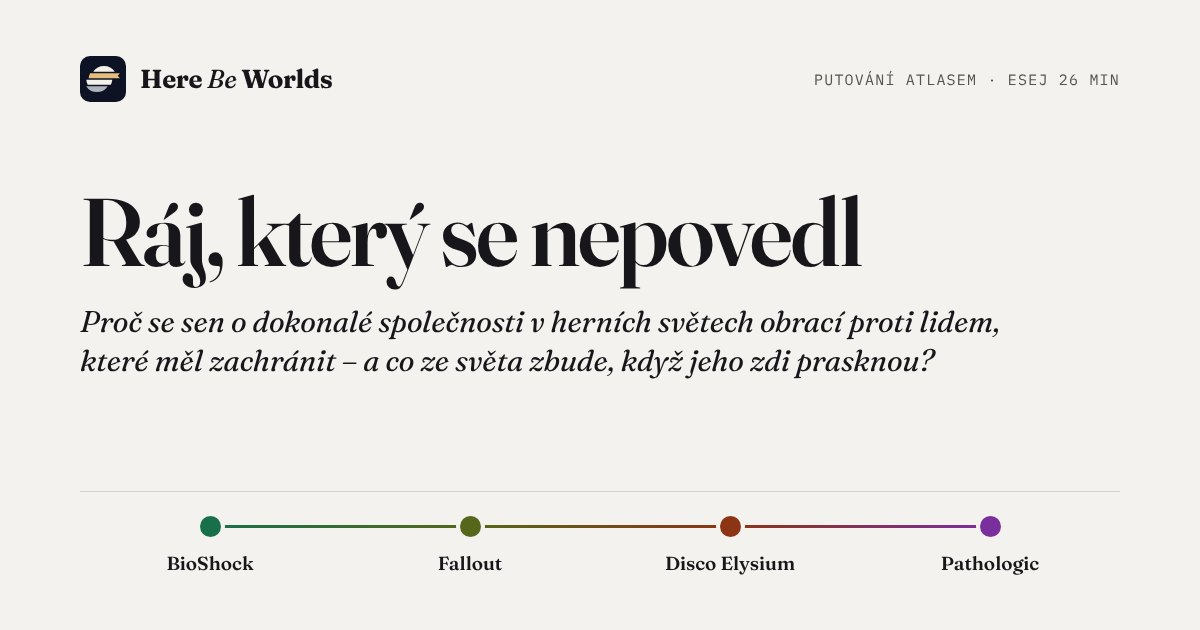
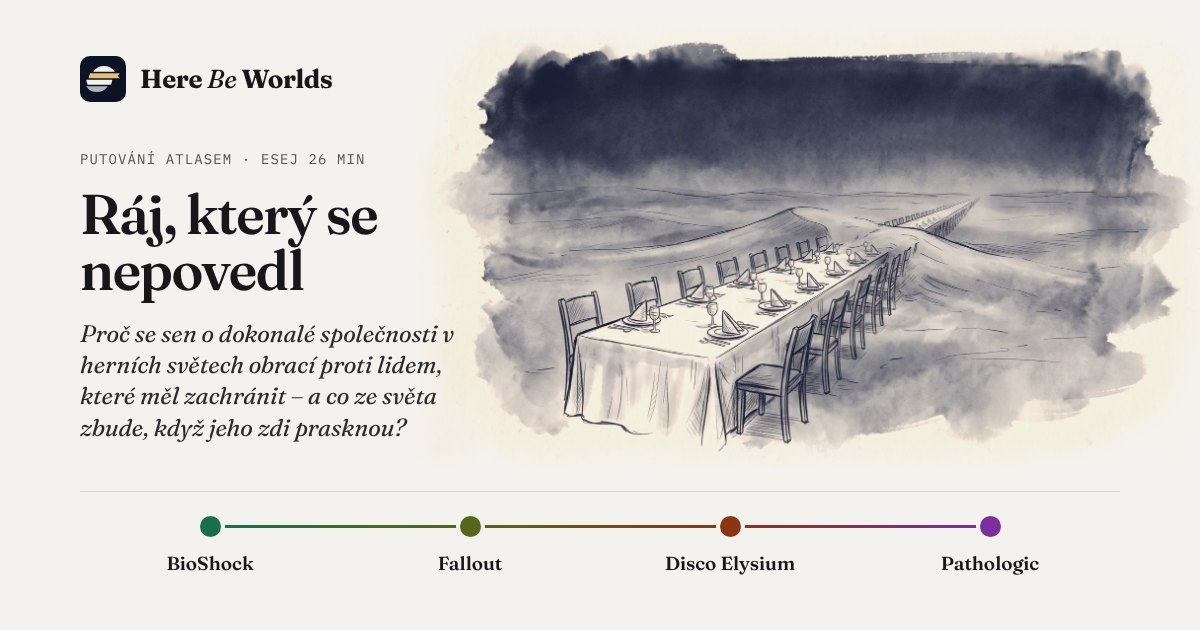
Obrázky k putování Ráj, který se nepovedl: hostina v dunách, schodiště zpět do země, zazděný oblouk
Claude-Session: https://claude.ai/code/session_01B7obWLKHHEWxurZ5a1svnf

diff --git a/src/lib/trail-images.ts b/src/lib/trail-images.ts
@@ -25,6 +25,7 @@ export const READY: Record<TrailId, number> = {
   'who-woke-up': 3,
   'cursed-legacy': 3,
   'free-will': 3,
+  'failed-paradise': 3,
 };
 
 const DIR = 'putovani-obrazky';

diff --git a/docs/obrazky-putovani.md b/docs/obrazky-putovani.md
@@ -11,7 +11,7 @@ Stav 2026-11-23: styl nalezený po pěti kolech zkoušek (náhled `/putovani/nav
 - **Jedna myšlenka, malý předmět (majitel 2026-11-23, po nepovedeném kole Uvězněni v kruhu):** velké přeplněné scény (had s průvodem poutníků, nekonečné schodiště, ptačí klec se světem, koleje s planetami) majitel zamítl jako tematicky nesevřené a „poznat, že je to AI“. Nosná je jedna myšlenka na jednom malém předmětu nebo polocelku (vzor: kamenné víčko, žebřík opřený o nebe, gramofon). Vedlejší motivy jen tam, kde tvoří hlavní tvar (most z kořenů, copů a prádla), ne jako zástup figurek a symbolů.
 - **Víc motivů k objevování:** hlavní tvar ať je složený z několika nečekaných předmětů, které člověk objeví až při delším pohledu (vzor: most z dlažby, kořenů, copů a šňůr s prádlem; majitel 2026-11-23). Jen když dávají jednomu tvaru smysl, nikdy jako výčet symbolů tématu.
 - **Neopakovat se, nečekaný znepokojivý detail (majitel 2026-11-25, u Prokletého dědictví):** napříč putováními se začaly opakovat stejné rekvizity (klíčky, zrcadla, obrazy, botičky, stopy) a majitel to zamítl: „chce to přijít s něčím nečekaným, a o to víc znepokojivým, musí tam být nějaký nečekaný moment, detail“. Vzor: kolébka s korunou, jejíž stín na zdi je rakev. Postup: obyčejný předmět (domácí, dětský, rodinný), který na první pohled nic nenaznačuje, a jediný detail, který ho na druhý pohled převrátí. Před návrhem motivů projít seznam níže a nesáhnout po ničem, co v něm už je; když se rekvizita přece jen hodí, říct to majiteli předem. Témata smějí být temná a zlověstná, bez krve a násilí (v promptu `Avoid: … gore`; u temných putování Mood „ominous surrealism … heavy with dread“ místo „quiet“).
-- **Už použité rekvizity (doplňovat po každém putování):** klíče a klíčové dírky (klíč stočený do kruhu, měsíc jako klíčová dírka) · zrcadla (rukavice a zrcátko, zamlžené zrcadlo) · obrazy a rámy (stín, který vypadl z obrazu) · boty a stopy (stopy ve sněhu, prázdné boty u žebříku) · prázdné oděvy (plášť na trůnu, kabát ukazující cestu, rukavice) · žebra a kosti jako stavivo (katedrála ze žeber, jablko se žebry) · trůny (plášť na trůnu, trůn s břízou) · knihy, deníky a dopisy (postavička z knihy, můra z deníku, dopisy z hlavy sochy, hranice srolovaných dopisů) · hodiny (kavalerie z rozbitých hodin) · světla (lucerna, svíčka, oheň u gramofonu) · koště a brky (koště z brků) · kouř (sirka z kouře, beránek z kouře) · nábytek a pokoje (křesla za sklem, okno s pokojem na pláni, koberec nad jámou) · stín jako odhalení (stín klíče, stín z obrazu, stín chapadel u pulce, stín rakve u kolébky) · ostatní: městečko na jevišti s roztrženým nebem, vajíčko ve vajíčku, kamenné víčko, domy otáčející se za chodcem, most z dlažby, kořenů, copů a prádla, prapory z hejn ptáků, kolotoč z děl, žebřík opřený o nebe, gramofon s hvězdami, sklenice s pulcem, mince na hraně, řetěz s dětským poutem, šperkovnice s mléčnými zuby, koleje a výhybka (smyčka jako oko), obojek s vodítkem do mraků, trhací kalendář s prázdnými listy (a kolébka v seznamu stínů). Zkoušené a zamítnuté u svobodné vůle: hrací skříňka s baletkou, kostka ve vzduchu, piliny s magnetem (třikrát nevyšlo), budka zatlučená zevnitř.
+- **Už použité rekvizity (doplňovat po každém putování):** klíče a klíčové dírky (klíč stočený do kruhu, měsíc jako klíčová dírka) · zrcadla (rukavice a zrcátko, zamlžené zrcadlo) · obrazy a rámy (stín, který vypadl z obrazu) · boty a stopy (stopy ve sněhu, prázdné boty u žebříku) · prázdné oděvy (plášť na trůnu, kabát ukazující cestu, rukavice) · žebra a kosti jako stavivo (katedrála ze žeber, jablko se žebry) · trůny (plášť na trůnu, trůn s břízou) · knihy, deníky a dopisy (postavička z knihy, můra z deníku, dopisy z hlavy sochy, hranice srolovaných dopisů) · hodiny (kavalerie z rozbitých hodin) · světla (lucerna, svíčka, oheň u gramofonu) · koště a brky (koště z brků) · kouř (sirka z kouře, beránek z kouře) · nábytek a pokoje (křesla za sklem, okno s pokojem na pláni, koberec nad jámou) · stín jako odhalení (stín klíče, stín z obrazu, stín chapadel u pulce, stín rakve u kolébky) · ostatní: městečko na jevišti s roztrženým nebem, vajíčko ve vajíčku, kamenné víčko, domy otáčející se za chodcem, most z dlažby, kořenů, copů a prádla, prapory z hejn ptáků, kolotoč z děl, žebřík opřený o nebe, gramofon s hvězdami, sklenice s pulcem, mince na hraně, řetěz s dětským poutem, šperkovnice s mléčnými zuby, koleje a výhybka (smyčka jako oko), obojek s vodítkem do mraků, trhací kalendář s prázdnými listy, hostina v dunách, schodiště zpět do země, zazděný oblouk s pěšinou kolem (a kolébka v seznamu stínů). Zkoušené a zamítnuté u svobodné vůle: hrací skříňka s baletkou, kostka ve vzduchu, piliny s magnetem (třikrát nevyšlo), budka zatlučená zevnitř. U Ráje: hradby obrácené dovnitř (vyšel obyčejný hrad), maják na dně (vypadá jako zatopený katastrofou), ráj pod skleněným zvonem (vypadá jako sněžítko), fontána s pískem (písek vypadá jako voda), kryt s pentlí (dveře jako trezor z Falloutu). Poučení (majitel 2026-11-25): u celků musí být paradox hlavní tvar a číst se na první pohled; nic ze skutečného světa (Vítězný oblouk z Paříže zamítnut).
 - **Světlo:** výchozí je **čistě modrá tuš bez zlaté**. Zlatá (#E5BE7E) jen výjimečně, když ji řádek scény výslovně jmenuje a je jádrem motivu (klíčová dírka na nebi, oheň u gramofonu). Gemini jinak zlatou přidává sám (okénka, lucerny), protože ji má vzorový obrázek: proto prompt výslovně zakazuje převzít lampu ze vzoru (majitel 2026-11-23: „pořád stejné rozsvícené okýnko a lucerna“).
 - **Motiv:** detail nebo polocelek, ne velká scéna. Obraz s druhým čtením: na první pohled obyčejný, na druhý nese otázku eseje. Prázdný prostor kolem.
 - **Nikdy:** text, písmena, podpisy, rámečky; postavy, loga a místa z her; náboženské symboly; lidé (nanejvýš drobná postava zezadu, když to motiv potřebuje); cákance tuše; airbrush; uhlazená digitální linka.
@@ -23,7 +23,7 @@ Stav 2026-11-23: styl nalezený po pěti kolech zkoušek (náhled `/putovani/nav
 - Masky: `maska/<slug>-N.png` podle tuše pro tmavý motiv (`python3 scripts/ink-masks.py`, pak zkopírovat z `navrh-obrazku/maska/`, nebo upravit cestu ve skriptu), `maska/freska.png` obecná.
 - Které putování obrázky má: `READY` v `src/lib/trail-images.ts`. Obrázky se ukážou jen u schválené eseje.
 - Rejstřík `/putovani/` má rozvržení karet ve dvou sloupcích s obrázkem nahoře (C, vybráno ze tří variant: A obraz za textem, B střídavé desky). Dokud nemají obrázky všechna putování, stojí vedle karty s obrázkem textové karty.
-- Na webu (2026-11-23): Hra ví, že ji hraješ (městečko na jevišti s roztrženým namalovaným nebem; postavička vylezlá z ilustrace v knize; stín, který vypadl z obrazu na podlahu); Na mrtvole boha (tři: prázdný plášť na trůnu držený provazy davu; trůn, kterým prorůstá bříza; jablko s žebry místo jádřince); Netvor v zrcadle (zatím jeden: stopy ve sněhu, které se z bot mění v tlapy); Mluví už jen mrtví (tři: prázdný kabát, který ukazuje cestu; můra s křídly z deníku; potopená hlava sochy, z níž stoupají listy dopisu k loďce); Uvězněni v kruhu (tři: klíč stočený do kruhu se stínem rovného klíče; vajíčko ve vajíčku; z kouře dohořelé sirky nová sirka); Bohové jako břemeno (katedrála ze žeber, kamenné víčko); Město, které dýchá (domy, které se otáčejí za chodcem; most z dlažby, kořenů, copů a prádla); Dům, ze kterého nejde odejít (měsíc jako zlatá klíčová dírka nad městečkem, okno uprostřed pláně s pokojem uvnitř). Válka, kterou nikdo nevyhraje (tři obrázky: prapory z hejn ptáků, kolotoč z děl, kavalerie z rozbitých hodin se svíčkou v temnu); Pod lhostejnými hvězdami (žebřík opřený o nebe s prázdnými botami a lucernou, gramofon, ze kterého se sypou hvězdy, u táboráku); Kdo za to může? (tři: prázdná rukavice ukazuje na zrcátko a odraz ukazuje zpět na diváka; koberec, pod jehož rohem je jáma se schody a koště z brků; z hranice srolovaných dopisů odplouvá kouř jako spící beránek, 2026-11-25); Kdo se to probudil? (tři: zamlžené zrcadlo nad umyvadlem, v jehož setřeném pruhu je další zrcadlo; dvě stejná křesla v pokoji rozděleném sklem, které prochází mincí na hraně; sklenice s pulcem, jehož stín na zdi jsou chapadla; 2026-11-25); Prokleté dědictví (tři: kolébka s korunou, jejíž stín je rakev, křížek na koruně vyretušovaný; řetěz z praskliny v zemi s otevřeným dětským poutem, hnědý nádech řetězu převedený do indiga; šperkovnice s náhrdelníkem z mléčných zubů; 2026-11-25); Křehká hranice svobodné vůle (tři: koleje shora, které se u výhybky rozdělí a zase spojí kolem kulatého jezírka, takže tvoří oko; prázdný obojek s vodítkem napnutým do mraků; trhací kalendář s prázdnými listy, jeden právě utržený, původně k jinému tématu, majitel ho přidal; 2026-11-25). Postup: 5 motivů, vybrat 2. **Motivy: surrealismus a neobvyklé kompozice, klidně velké měřítko a zachycený pohyb (Magritte, Dalí), neobvyklé spojení předmětů (v duchu Magritta), jen lehce doslovné** — první kolo s doslovnými motivy (tapeta, dveře, kolébka) majitel zamítl jako nenápadité. Do promptu řádek `Mood: subtle surrealism in the spirit of Magritte: one unexpected combination, quiet and uncanny, never literal or explanatory. Rich in discoverable detail: several unexpected secondary motifs are woven into the main forms, so the viewer keeps finding new things on a second look.` Po přidání prvního obrázku obnovit kartu pro sdílení: `npm run og -- <slug> putovani` (fonty a Chromium viz CLAUDE.md). Masky: `python3 scripts/ink-masks.py public/putovani-obrazky/<slug>-1.jpg …`; když je světlý papír uprostřed součástí motivu (mezera mezi konci mostu), přidej `--fill`. Skript dělá dvě masky: `<soubor>.png` pro tmavý motiv a širokou `<soubor>-light.png` pro světlý (papír tam schová multiply a lehké vybělení `brightness(1.06) saturate(0.8)`, maska nesmí zamlžit slabé tahy; majitel 2026-11-23). Ve světlém motivu se v eseji kresba ořezává jen širokou maskou (fresková by ořízla tahy štětce nahoře a stopy u spodního okraje); v tmavém motivu (esej i rejstřík) jen fresková maska: tvar je vždy **zvlněný obdélník do ztracena**, nikdy vykrojený podle skvrn tuše (majitel 2026-11-23). Zkoušený okraj podle tahů štětce se světlým lemem majitel zamítl jako „příliš“: v tmavém motivu okraje nebudou tak působivé jako ve světlém a je to tak správně; v rejstříku zůstává i fresková (obrázek je tam oříznutý na 3 : 2).
+- Na webu (2026-11-23): Hra ví, že ji hraješ (městečko na jevišti s roztrženým namalovaným nebem; postavička vylezlá z ilustrace v knize; stín, který vypadl z obrazu na podlahu); Na mrtvole boha (tři: prázdný plášť na trůnu držený provazy davu; trůn, kterým prorůstá bříza; jablko s žebry místo jádřince); Netvor v zrcadle (zatím jeden: stopy ve sněhu, které se z bot mění v tlapy); Mluví už jen mrtví (tři: prázdný kabát, který ukazuje cestu; můra s křídly z deníku; potopená hlava sochy, z níž stoupají listy dopisu k loďce); Uvězněni v kruhu (tři: klíč stočený do kruhu se stínem rovného klíče; vajíčko ve vajíčku; z kouře dohořelé sirky nová sirka); Bohové jako břemeno (katedrála ze žeber, kamenné víčko); Město, které dýchá (domy, které se otáčejí za chodcem; most z dlažby, kořenů, copů a prádla); Dům, ze kterého nejde odejít (měsíc jako zlatá klíčová dírka nad městečkem, okno uprostřed pláně s pokojem uvnitř). Válka, kterou nikdo nevyhraje (tři obrázky: prapory z hejn ptáků, kolotoč z děl, kavalerie z rozbitých hodin se svíčkou v temnu); Pod lhostejnými hvězdami (žebřík opřený o nebe s prázdnými botami a lucernou, gramofon, ze kterého se sypou hvězdy, u táboráku); Kdo za to může? (tři: prázdná rukavice ukazuje na zrcátko a odraz ukazuje zpět na diváka; koberec, pod jehož rohem je jáma se schody a koště z brků; z hranice srolovaných dopisů odplouvá kouř jako spící beránek, 2026-11-25); Kdo se to probudil? (tři: zamlžené zrcadlo nad umyvadlem, v jehož setřeném pruhu je další zrcadlo; dvě stejná křesla v pokoji rozděleném sklem, které prochází mincí na hraně; sklenice s pulcem, jehož stín na zdi jsou chapadla; 2026-11-25); Prokleté dědictví (tři: kolébka s korunou, jejíž stín je rakev, křížek na koruně vyretušovaný; řetěz z praskliny v zemi s otevřeným dětským poutem, hnědý nádech řetězu převedený do indiga; šperkovnice s náhrdelníkem z mléčných zubů; 2026-11-25); Křehká hranice svobodné vůle (tři: koleje shora, které se u výhybky rozdělí a zase spojí kolem kulatého jezírka, takže tvoří oko; prázdný obojek s vodítkem napnutým do mraků; trhací kalendář s prázdnými listy, jeden právě utržený, původně k jinému tématu, majitel ho přidal; 2026-11-25); Ráj, který se nepovedl (tři, poprvé celky místo předmětu, na pokyn majitele velký motiv a paradox: nekonečně dlouhý prostřený stůl v poušti, zavátý dunou; monumentální schodiště, které se v oblouku vrací zpátky do země; vymyšlený zazděný oblouk se sluncem, kolem jehož boku je v dlažbě vyšlapaná pěšina; 2026-11-25). Postup: 5 motivů, vybrat 2. **Motivy: surrealismus a neobvyklé kompozice, klidně velké měřítko a zachycený pohyb (Magritte, Dalí), neobvyklé spojení předmětů (v duchu Magritta), jen lehce doslovné** — první kolo s doslovnými motivy (tapeta, dveře, kolébka) majitel zamítl jako nenápadité. Do promptu řádek `Mood: subtle surrealism in the spirit of Magritte: one unexpected combination, quiet and uncanny, never literal or explanatory. Rich in discoverable detail: several unexpected secondary motifs are woven into the main forms, so the viewer keeps finding new things on a second look.` Po přidání prvního obrázku obnovit kartu pro sdílení: `npm run og -- <slug> putovani` (fonty a Chromium viz CLAUDE.md). Masky: `python3 scripts/ink-masks.py public/putovani-obrazky/<slug>-1.jpg …`; když je světlý papír uprostřed součástí motivu (mezera mezi konci mostu), přidej `--fill`. Skript dělá dvě masky: `<soubor>.png` pro tmavý motiv a širokou `<soubor>-light.png` pro světlý (papír tam schová multiply a lehké vybělení `brightness(1.06) saturate(0.8)`, maska nesmí zamlžit slabé tahy; majitel 2026-11-23). Ve světlém motivu se v eseji kresba ořezává jen širokou maskou (fresková by ořízla tahy štětce nahoře a stopy u spodního okraje); v tmavém motivu (esej i rejstřík) jen fresková maska: tvar je vždy **zvlněný obdélník do ztracena**, nikdy vykrojený podle skvrn tuše (majitel 2026-11-23). Zkoušený okraj podle tahů štětce se světlým lemem majitel zamítl jako „příliš“: v tmavém motivu okraje nebudou tak působivé jako ve světlém a je to tak správně; v rejstříku zůstává i fresková (obrázek je tam oříznutý na 3 : 2).
 
 ## Jak generovat
 

diff --git a/CLAUDE.md b/CLAUDE.md
@@ -83,7 +83,7 @@ Kroniky a eseje **nejsou** v `data/`.
 | `/notes/` | `src/pages/notes/index.astro` | `NotesPage` — obsah oddílů (lepí se pod hlavičku, oddíl, který čteš, je podtržený; na telefonu jeden řádek posuvný do strany, 2026-11-25), rejstříkový seznam pojmů (štítek vlevo, výklad vpravo), legenda 1–5 jako pruh os; oddíly Charakter světa · Profil světa · Triáda (tři pojmy s odkazy do Anatomie a do Galerie triád / Mapy neznáma, pod nimi typy hříchů, dilemata, druhy tajemství a kdo drží mezeru s ikonami – texty z `triad-types.json`, 2026-11-24 se souhlasem majitele) · Příbuznost světů (4 pilíře, 5 stupňů slovy, bez procent) · Kompas a ladění · Hlubina času (2026-11-25 s pokynem majitele: šest pojmů – sloupec a hladina, období her a rysky, dějiny a fundamentální události, odhad, mýtus a cyklus, stupnice, naše časová osa – a odkaz na stránku; `noteDeepTime*`) · Kánon (texty v `data/meta/notes.ts`) |
 | `/anatomie-herniho-lore/` | `src/pages/anatomie-herniho-lore/index.astro` | `EssayPage` (obsah `ReadingToc` vlevo, čtecí sloupec jako kronika, doba čtení pod podtitulem) |
 | `/teoreticke-zazemi/` | `src/pages/teoreticke-zazemi/index.astro` | `EssayPage` z `content/essays/teoreticke-zazemi.md`: prameny atlasu po oblastech (fikční světy, fantastika, herní studia, hrůza a posvátno, mýtus, paměť, osoba a identita, moc a dohled, dílna tvůrců), tabulka pojmů, výhrady k autorům, co by sem ještě patřilo, seznam literatury. Odkaz z Anatomie (oddíl Na čem metoda stojí) a z patičky. **Po zapracování nové knihy doplnit i sem.** |
-| `/putovani/` | `src/pages/putovani/index.astro` | `TrailsIndex` (`src/components/trails/`, styly `trails.css`): hlavička jako atlas, filtry **Svět** a **Téma** (rozsvítí stezky, kterými svět prochází / které se tématu dotýkají, ostatní ztlumí; `?svet=<id>`, `?tema=<slug>`; klik na téma v řádku dělá totéž, jméno světa v kartě vede rovnou na spis světa (majitel 2026-11-24)); rejstřík 22 stezek jako **karty ve dvou sloupcích** (rozvržení C, majitel 2026-11-23; karta: obrázek nahoře přes celou šířku karty do ztracena, 3 : 2, pak název, popis, světy s linkou v barvě archetypu nad každým jménem, témata eseje jako hranaté štítky na tónovaném podkladu (vybrané téma v akcentu) = `themes` v `trails.ts`, 2–4 na stezku, a za nimi „Esej · N min“; karta bez obrázku je jen text; na telefonu jeden sloupec); oddíl **Kde se stezky kříží** (mřížka stezky × všechny světy podle abecedy, i ty na jediné stezce, vpravo počet (majitel 2026-11-22), tečka v barvě archetypu, pod kurzorem se rozsvítí sloupec i řádek, názvy stezek nahoře i dole; na telefonu seznam dvanácti nejvíc křížených světů). V hlavičce webu odkaz Putování hned za Atlasem; Putování dne na titulní straně vedou na stránky putování. Staré adresy `/stezky/…` přesměrovávají (`src/pages/stezky/`, `RedirectPage.astro`). Obrázky k putováním (jediné místo na webu s obrázky): styl a postup `docs/obrazky-putovani.md`, soubory `public/putovani-obrazky/`, seznam `READY` v `src/lib/trail-images.ts`; náhled v rejstříku (`TrailsIndex images`) a v eseji pod úvodním citátem a uprostřed (`EssayPage hero/hero2/heroLive`), okraj do ztracena maskou. Zatím Bohové jako břemeno, Dům, ze kterého nejde odejít, Pod lhostejnými hvězdami, Válka, kterou nikdo nevyhraje, Město, které dýchá, Uvězněni v kruhu, Mluví už jen mrtví, Netvor v zrcadle, Na mrtvole boha, Hra ví, že ji hraješ, Kdo za to může?, Kdo se to probudil?, Prokleté dědictví a Křehká hranice svobodné vůle. Zkušební náhled `/putovani/navrh-obrazku/` (noindex). |
+| `/putovani/` | `src/pages/putovani/index.astro` | `TrailsIndex` (`src/components/trails/`, styly `trails.css`): hlavička jako atlas, filtry **Svět** a **Téma** (rozsvítí stezky, kterými svět prochází / které se tématu dotýkají, ostatní ztlumí; `?svet=<id>`, `?tema=<slug>`; klik na téma v řádku dělá totéž, jméno světa v kartě vede rovnou na spis světa (majitel 2026-11-24)); rejstřík 22 stezek jako **karty ve dvou sloupcích** (rozvržení C, majitel 2026-11-23; karta: obrázek nahoře přes celou šířku karty do ztracena, 3 : 2, pak název, popis, světy s linkou v barvě archetypu nad každým jménem, témata eseje jako hranaté štítky na tónovaném podkladu (vybrané téma v akcentu) = `themes` v `trails.ts`, 2–4 na stezku, a za nimi „Esej · N min“; karta bez obrázku je jen text; na telefonu jeden sloupec); oddíl **Kde se stezky kříží** (mřížka stezky × všechny světy podle abecedy, i ty na jediné stezce, vpravo počet (majitel 2026-11-22), tečka v barvě archetypu, pod kurzorem se rozsvítí sloupec i řádek, názvy stezek nahoře i dole; na telefonu seznam dvanácti nejvíc křížených světů). V hlavičce webu odkaz Putování hned za Atlasem; Putování dne na titulní straně vedou na stránky putování. Staré adresy `/stezky/…` přesměrovávají (`src/pages/stezky/`, `RedirectPage.astro`). Obrázky k putováním (jediné místo na webu s obrázky): styl a postup `docs/obrazky-putovani.md`, soubory `public/putovani-obrazky/`, seznam `READY` v `src/lib/trail-images.ts`; náhled v rejstříku (`TrailsIndex images`) a v eseji pod úvodním citátem a uprostřed (`EssayPage hero/hero2/heroLive`), okraj do ztracena maskou. Zatím Bohové jako břemeno, Dům, ze kterého nejde odejít, Pod lhostejnými hvězdami, Válka, kterou nikdo nevyhraje, Město, které dýchá, Uvězněni v kruhu, Mluví už jen mrtví, Netvor v zrcadle, Na mrtvole boha, Hra ví, že ji hraješ, Kdo za to může?, Kdo se to probudil?, Prokleté dědictví, Křehká hranice svobodné vůle a Ráj, který se nepovedl. Zkušební náhled `/putovani/navrh-obrazku/` (noindex). |
 | `/putovani/[id]/` | `src/pages/putovani/[id].astro` | Stránka každého putování, adresa = český slug z `TRAIL_SLUGS` (`trails.ts`), stejný jako soubor eseje v `content/trails/`. `EssayPage` s `trail`: pod hlavičkou `TrailCast` (světy) a `TrailThemes` (témata → `/putovani/?tema=`), před Zdroji `TrailWorlds` (souřadnice s výraznými názvy, seznam světů s archetypem a podžánrem). **Esej se ukáže jen s `approved: true` ve frontmatteru** (schvaluje majitel); jinak stránka ukáže rámeček „Esej připravujeme“, Světy putování a oddíl „Na čem putování stojí“ (jména pramenů z tabulky Prameny podle stezek v `docs/prameny/README.md`, `trailSources` v `src/lib/trail-pages.ts`). Neschválené eseje mají náhled `/putovani/navrh/<slug>/` (`noindex`, z webu na něj nic nevede). Schválené (2026-11-21): `na-mrtvole-boha`, `kdo-za-to-muze`, `kdo-se-to-probudil`, `netvor-v-zrcadle`, `mluvi-uz-jen-mrtvi`, `bohove-jako-bremeno`, `valka-kterou-nikdo-nevyhraje`, `proklete-dedictvi`, `krehka-hranice-svobodne-vule`, `uvezneni-v-kruhu`, `hra-vi-ze-ji-hrajes`, `raj-ktery-se-nepovedl`, `logo-nad-troskami`, `smich-nad-propasti`, `mesto-ktere-dycha`, `pod-lhostejnymi-hvezdami`, `kdo-drzi-kroniku`, `kopie-bez-originalu`, `dum-ze-ktereho-nejde-odejit`, `prace-ktera-nikdy-nekonci`, `jmeno-jako-klic-i-kletba`, `nakaza-s-vlastni-vuli` (všech 22). |
 | `/temata/` | `src/pages/temata/index.astro` | `ThemesIndex` (`src/components/themes/`, styly `themes.css`, 2026-11-24): pás hlavičky, řazení Podle abecedy / Podle počtu světů, rejstřík témat ve dvou sloupcích (název → stránka tématu, otázka kurzívou, otisk světů jako čtverečky v barvě archetypu, počet světů a putování) a **Kde se témata potkávají** (trojúhelníková mřížka téma × téma, kruh podle počtu světů s oběma tématy, prázdné šrafované, najetí rozsvítí řádek i sloupec a vypíše dvojici; na telefonu skrytá). |
 | `/temata/[slug]/` | `src/pages/temata/[slug].astro` | `ThemePage`, adresa = český název bez diakritiky (`themePageSlug` v `src/lib/themes.ts`). Hlavička v pásu: štítek „Téma“ (odkaz na rejstřík), název, otázka, „N světů · N archetypů · N putování“, vpravo **obloha z titulní strany v tuši** (`ThemeSky`; hvězdy na stejných místech díky `src/lib/sky.ts`, světy tématu rozsvícené v barvě archetypu a spojené přerušovanou nejkratší trasou, ostatní tlumeně; najetí na hvězdu ukáže jméno). Oddíly: **Světy** (záznamy ve třech sloupcích: linka v barvě archetypu, název, archetyp · podžánr, jádro kurzívou; najetí rozsvítí hvězdu) · **Podoba tématu** (Archetypy: řádek na archetyp, čtverečky = všechny jeho světy, plné = s tématem; Souřadnice: `AxisRange` s prázdným kosočtvercem průměru celého atlasu `reference`) · **Putování** (putování s tématem v `trails.ts` `themes`, první obrázek přes masku, otázka eseje, trasa světů, světy tématu tučně) · **Potkává se s** (šest témat nejčastěji ve stejných světech, `neighbourThemes`; není to příbuznost světů) · odkazy Otevřít v atlasu · Všechna témata. Podklady skládá při sestavení `src/lib/theme-pages.ts`. Odkazy na stránky témat: hledání (lupa), atlas (Další pohledy a „O tématu …“ pod počtem výsledků při filtru tématu), patička. Témata na kartě světa vedou na stránky témat (majitel 2026-11-24). |
